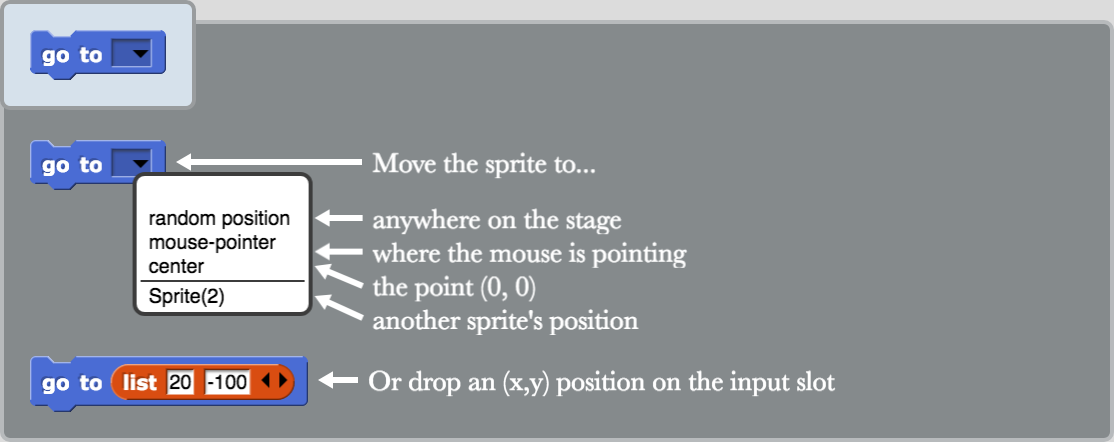
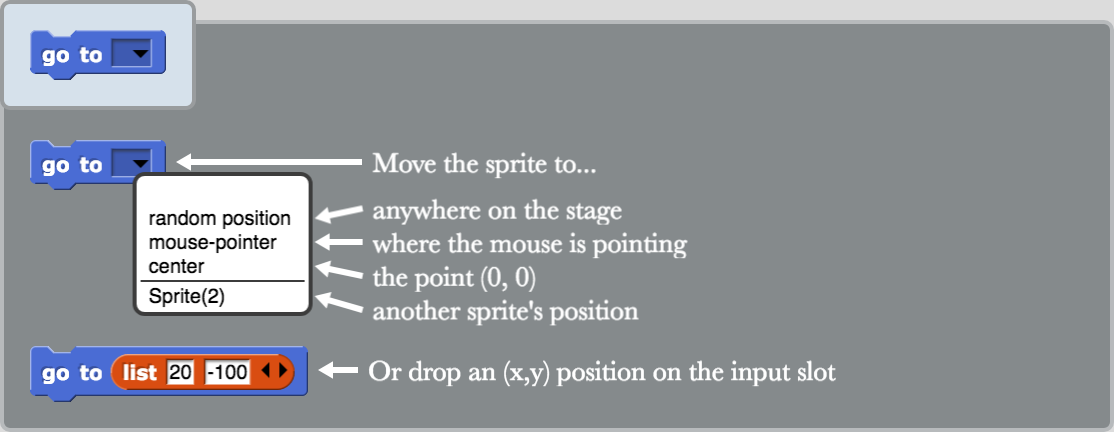
Add arrow-horizontal attribute for help annotations

diff --git a/libraries/help.js b/libraries/help.js
@@ -298,7 +298,7 @@ SnapSerializer.prototype.loadHelpScreen = function (xmlString, callback) {
                         stage.replaceDoubleDefinitionsFor(def);
                     });
                     loadLibrary(index + 1);
-                })
+                });
             } else {
                 loadLibrary(index + 1);
             }
@@ -450,14 +450,7 @@ SnapSerializer.prototype.loadHelpScreenElement = function (
                         var morph = myself.loadHelpScreenElement(
                             child, screen, target, textColor
                         );
-                        morph.annotationArrowReverse =
-                            !!child.attributes['arrow-reverse'];
-                        morph.annotationArrowDetour =
-                            +child.attributes['arrow-detour'] || 0;
-                        if (child.attributes['arrow-color']) {
-                            morph.annotationArrowColor =
-                                child.attributes['arrow-color'];
-                        }
+                        myself.handleAnnotations(child, morph);
                         return morph;
                     }
                 ) : [],
@@ -581,6 +574,9 @@ SnapSerializer.prototype.handleAnnotations = function (model, morph) {
     }
     if (model.attributes['arrow-detour']) {
         morph.annotationArrowDetour = +model.attributes['arrow-detour'] || 0;
+    }
+    if (model.attributes['arrow-horizontal']) {
+        morph.annotationArrowHorizontal = !!model.attributes['arrow-horizontal'];
     }
     if (model.attributes['arrow-color']) {
         morph.annotationArrowColor = model.attributes['arrow-color'];
@@ -975,10 +971,8 @@ ScriptDiagramMorph.prototype.drawNew = function () {
 };
 
 ScriptDiagramMorph.prototype.fixLayout = function () {
-    var i, scriptWidth, scriptHeight, scale, diagramWidth, diagramHeight,
-        menu, bubbleValue, bubble, annotation, annotated, annotationWidth,
-        annotationX, annotationMinY, lineHeight, arrow, arrowStart, arrowEnd,
-        arrowStartMorph, arrowEndMorph, allArrows, img, scaledImg, ctx;
+    var myself = this, scriptWidth, scriptHeight, scale, diagramWidth,
+        diagramHeight, annotationsHeight, img, scaledImg, ctx;
 
     if (this.script instanceof BlockMorph) {
         scriptWidth = this.script.stackFullBounds().width();
@@ -1005,121 +999,110 @@ ScriptDiagramMorph.prototype.fixLayout = function () {
     });
     this.arrows = [];
 
-    for (i = 1; i <= this.bubbles.length; i++) {
-        bubbleValue = this.bubbles[i - 1];
-        annotated = this.getAnnotatedMorph('annotationBubble', i);
+    this.bubbles.forEach(function (bubbleValue, i) {
+        var annotated, bubble;
+        annotated = myself.getAnnotatedMorph('annotationBubble', i + 1);
         if (annotated) {
             bubble = annotated.showBubble(
                 bubbleValue, false, new SpriteMorph(), true
             );
             bubble.addShadow(new Point(2, 2), 80);
-            this.add(bubble);
+            myself.add(bubble);
             bubble.fullChanged();
-            bubble.setTop(this.top());
-            bubble.setLeft(this.scriptDisplay.right() + 2);
-            this.scriptDisplay.setTop(bubble.bottom());
+            bubble.setTop(myself.top());
+            bubble.setLeft(myself.scriptDisplay.right() + 2);
+            myself.scriptDisplay.setTop(bubble.bottom());
             diagramHeight = Math.max(
                 diagramHeight,
-                this.scriptDisplay.bottom() - this.top()
+                myself.scriptDisplay.bottom() - myself.top()
             );
         }
-    }
+    });
 
-    for (i = 1; i <= this.menus.length; i++) {
-        menu = this.menus[i - 1];
-        annotated = this.getAnnotatedMorph('annotationMenu', i);
+    this.menus.forEach(function (menu, i) {
+        var annotated;
+        annotated = myself.getAnnotatedMorph('annotationMenu', i + 1);
         if (annotated) {
-            this.add(menu);
+            myself.add(menu);
             menu.setPosition(
-                this.scriptDisplay.position()
+                myself.scriptDisplay.position()
                     .add(annotated.rightCenter().multiplyBy(scale))
                     .add(new Point(-10, 5))
             );
             diagramWidth = Math.max(
                 scriptWidth,
-                menu.right() - this.left()
+                menu.right() - myself.left()
             );
             diagramHeight = Math.max(
                 diagramHeight,
-                menu.bottom() - this.top()
+                menu.bottom() - myself.top()
             );
         }
-    }
+    });
 
-    annotationX = this.left() + diagramWidth + this.margin;
-    annotationMinY = this.scriptDisplay.top();
-    annotationWidth = this.right() - annotationX;
-    for (i = 1; i <= this.annotations.length; i++) {
-        annotation = this.annotations[i - 1];
-        annotated = this.getAnnotatedMorph('annotationID', i);
-        if (annotated) {
-            this.add(annotation);
-            if (annotation.annotationArrowDetour) {
-                arrowEnd = this.scriptDisplay.position().add(
-                    annotated.center().multiplyBy(scale)
-                );
-            } else if (
-                annotated instanceof CommandBlockMorph
-                || annotated instanceof MenuItemMorph
-                || annotated === annotated.topBlock()
-            ) {
-                arrowEnd = this.scriptDisplay.position().add(new Point(
-                    annotated.right() + this.padding,
-                    annotated.parts
-                        // use y of center of label
-                        ? annotated.parts()[0].center().y
-                        : annotated.center().y
-                ).multiplyBy(scale));
-            } else if (i === 1) {
-                arrowEnd = this.scriptDisplay.position().add(new Point(
-                    annotated.right(),
-                    annotated.center().y
-                ).multiplyBy(scale));
-            } else {
-                arrowEnd = this.scriptDisplay.position().add(
-                    annotated.bottomCenter().multiplyBy(scale)
-                );
-            }
+    annotationsHeight = this.addAnnotations(diagramWidth, scale);
 
-            if (annotation instanceof TextMorph) {
-                annotation.setWidth(annotationWidth);
-            }
+    this.script.forAllChildren(function (child) {
+        if (child.annotationHighlight) {
+            child.addDiagramHighlight();
+        }
+    });
+    this.script.forAllChildren(function (child) {
+        if (child.annotationGhost) {
+            child.ghost();
+        }
+    });
 
-            if (annotation instanceof RichTextMorph) {
-                lineHeight = annotation.calculateLineHeight(annotation.lines[0]);
-            } else if (annotation instanceof TextMorph) {
-                lineHeight = fontHeight(annotation.fontSize);
-            } else {
-                lineHeight = annotation.height();
-            }
+    img = this.script.fullImage();
+    scaledImg = newCanvas(new Point(scriptWidth, scriptHeight));
+    ctx = scaledImg.getContext('2d');
+    ctx.drawImage(img, 0, 0, scriptWidth, scriptHeight);
+    this.scriptDisplay.image = scaledImg;
+    this.setHeight(Math.max(diagramHeight, annotationsHeight));
+};
 
-            annotation.setPosition(new Point(
-                annotationX,
-                Math.max(
-                    annotationMinY,
-                    arrowEnd.y - lineHeight / 2
-                )
-            ));
-            annotationMinY = annotation.bottom();
+ScriptDiagramMorph.prototype.addAnnotations = function (
+    diagramWidth, scale
+) {
+    var myself = this, minTop, annotationsHeight, horizontalArrows, i,
+        lastCreated, annotation, arrow, arrowStart, arrowEnd,
+        arrowStartMorph, arrowEndMorph, allArrows;
 
-            arrowStart = new Point(
-                annotation.left() - this.padding,
-                annotation.top() + lineHeight / 2
+    minTop = this.scriptDisplay.top();
+    annotationsHeight = 0;
+    horizontalArrows = [];
+    this.annotations.forEach(function (annotation, i) {
+        if (annotation.annotationArrowHorizontal) {
+            horizontalArrows.push(i);
+        }
+    });
+    lastCreated = -1;
+
+    horizontalArrows.forEach(function (arrowIdx) {
+        var localMinTop = minTop, localMaxBottom = -1;
+        for (i = arrowIdx; i > lastCreated; i--) {
+            annotation = myself.addAnnotation(
+                i + 1, diagramWidth, scale, localMinTop, localMaxBottom
             );
-            if (Math.abs(arrowStart.y  - arrowEnd.y) <= 5) {
-                arrowEnd.y = arrowStart.y;
+            if (annotation) {
+                minTop = Math.max(minTop, annotation.bottom());
+                localMaxBottom = annotation.top();
+                annotationsHeight = Math.max(
+                    annotationsHeight, annotation.bottom() - myself.top()
+                );
             }
-
-            arrow = new DiagramArrowMorph(
-                arrowStart, arrowEnd, false,
-                annotation.annotationArrowReverse,
-                annotation.annotationArrowDetour
+        }
+        lastCreated = arrowIdx;
+    });
+    for (i = lastCreated + 1; i < this.annotations.length; i++) {
+        annotation = this.addAnnotation(
+            i + 1, diagramWidth, scale, minTop, -1
+        );
+        if (annotation) {
+            minTop = annotation.bottom();
+            annotationsHeight = Math.max(
+                annotationsHeight, annotation.bottom() - this.top()
             );
-            arrow.color = annotation.annotationArrowColor || this.defaultArrowColor;
-            arrow.drawNew();
-            diagramHeight = Math.max(diagramHeight, arrow.bottom() - this.top());
-            this.arrows.push(arrow);
-            this.add(arrow);
         }
     }
 
@@ -1156,31 +1139,99 @@ ScriptDiagramMorph.prototype.fixLayout = function () {
         arrow.color = arrowStartMorph.annotationArrowColor
                         || this.defaultArrowColor;
         arrow.drawNew();
-        diagramHeight = Math.max(diagramHeight, arrow.bottom() - this.top());
+        annotationsHeight = Math.max(
+            annotationsHeight, arrow.bottom() - this.top()
+        );
         this.arrows.push(arrow);
         this.add(arrow);
         i += 1;
     }
 
-    this.script.forAllChildren(function (child) {
-        if (child.annotationHighlight) {
-            child.addDiagramHighlight();
-        }
-    });
-    this.script.forAllChildren(function (child) {
-        if (child.annotationGhost) {
-            child.ghost();
-        }
-    });
+    return annotationsHeight;
+};
 
-    img = this.script.fullImage();
-    scaledImg = newCanvas(new Point(scriptWidth, scriptHeight));
-    ctx = scaledImg.getContext('2d');
-    ctx.drawImage(img, 0, 0, scriptWidth, scriptHeight);
-    this.scriptDisplay.image = scaledImg;
+ScriptDiagramMorph.prototype.addAnnotation = function (
+    id, diagramWidth, scale, minTop, maxBottom
+) {
+    var annotation, annotated, annotationX, annotationWidth,
+        arrow, arrowStart, arrowEnd, lineHeight;
 
-    diagramHeight = Math.max(diagramHeight, annotationMinY);
-    this.setHeight(diagramHeight);
+    annotationX = this.left() + diagramWidth + this.margin;
+    annotationWidth = this.right() - annotationX;
+
+    annotation = this.annotations[id - 1];
+    annotated = this.getAnnotatedMorph('annotationID', id);
+    if (!annotated) {
+        return null;
+    }
+
+    this.add(annotation);
+    if (annotation.annotationArrowDetour) {
+        arrowEnd = this.scriptDisplay.position().add(
+            annotated.center().multiplyBy(scale)
+        );
+    } else if (
+        annotated instanceof CommandBlockMorph
+        || annotated instanceof MenuItemMorph
+        || annotated === annotated.topBlock()
+    ) {
+        arrowEnd = this.scriptDisplay.position().add(new Point(
+            annotated.right() + this.padding,
+            annotated.parts
+                // use y of center of label
+                ? annotated.parts()[0].center().y
+                : annotated.center().y
+        ).multiplyBy(scale));
+    } else if (id === 1) {
+        arrowEnd = this.scriptDisplay.position().add(new Point(
+            annotated.right(),
+            annotated.center().y
+        ).multiplyBy(scale));
+    } else {
+        arrowEnd = this.scriptDisplay.position().add(
+            annotated.bottomCenter().multiplyBy(scale)
+        );
+    }
+
+    if (annotation instanceof TextMorph) {
+        annotation.setWidth(annotationWidth);
+    }
+
+    if (annotation instanceof RichTextMorph) {
+        lineHeight = annotation.calculateLineHeight(annotation.lines[0]);
+    } else if (annotation instanceof TextMorph) {
+        lineHeight = fontHeight(annotation.fontSize);
+    } else {
+        lineHeight = annotation.height();
+    }
+
+    annotation.setPosition(new Point(
+        annotationX,
+        arrowEnd.y - lineHeight / 2
+    ));
+    if (!annotation.annotationArrowHorizontal) {
+        annotation.setTop(Math.max(minTop, annotation.top()));
+        if (maxBottom > -1) {
+            annotation.setBottom(Math.min(maxBottom, annotation.bottom()));
+        }
+    }
+
+    arrowStart = new Point(
+        annotation.left() - this.padding,
+        annotation.top() + lineHeight / 2
+    );
+
+    arrow = new DiagramArrowMorph(
+        arrowStart, arrowEnd, false,
+        annotation.annotationArrowReverse,
+        annotation.annotationArrowDetour || 0
+    );
+    arrow.color = annotation.annotationArrowColor || this.defaultArrowColor;
+    arrow.drawNew();
+    this.arrows.push(arrow);
+    this.add(arrow);
+
+    return annotation;
 };
 
 ScriptDiagramMorph.prototype.getAnnotatedMorph = function (attribute, id) {

diff --git a/help/XML.md b/help/XML.md
@@ -225,9 +225,10 @@ Attributes for annotations and `arrow-start` components:
 
 | Attribute | Value | Default | Comment |
 | --- | --- | --- | --- |
-| arrow-reverse | true or false | false | Reverses the arrow. |
-| arrow-detour | number | 0 | The arrow will bend by this many pixels. This attribute can be used to prevent the arrow from overlapping important parts of a script. |
 | arrow-color | CSS color | black/white | Default depends on the color of the box the diagram is contained in. |
+| arrow-detour | number | 0 | The arrow will bend by this many pixels. This attribute can be used to prevent the arrow from overlapping important parts of a script. |
+| arrow-reverse | true or false | false | Reverses the arrow. |
+| arrow-horizontal | true or false | false | Forces the annotation to be positioned so that its arrow is horizontal. Any annotations above are positioned higher than normal. See `doGotoObject.xml` for an example. |
 
 Valid bubble contents:
 - `<text>Text</text>`
